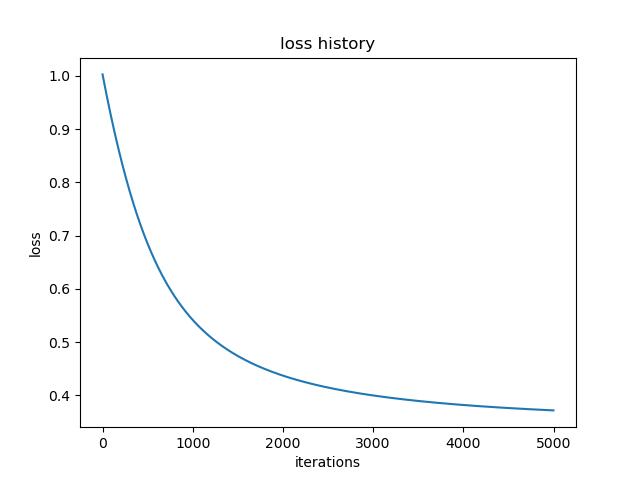
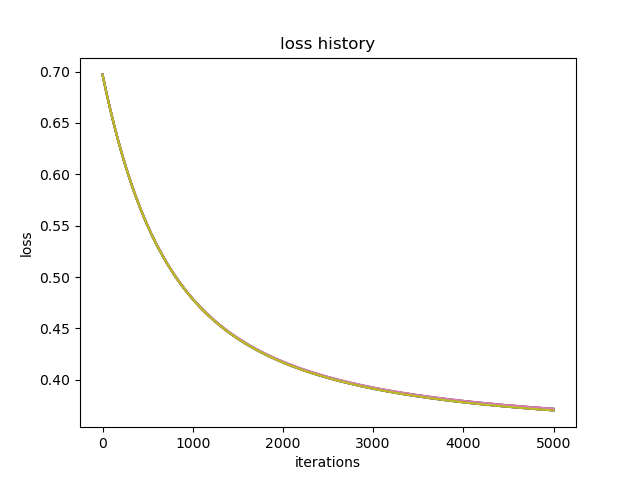
support weight decay

diff --git a/model.py b/model.py
@@ -7,9 +7,10 @@ def sigmoid(x):
 
 
 class LogisticRegressionBinaryClassifier():
-    def __init__(self, iterations=10000, learning_rate=0.01):
+    def __init__(self, iterations=10000, learning_rate=0.01, weight_decay=1.0):
         self.iterations = iterations
         self.learning_rate = learning_rate
+        self.weight_decay = weight_decay
         self.weight = None  # 权重 + 偏置 长度是特征个数 + 1
         self.loss_history = []
         self.n_feature = 0  # 特征个数
@@ -32,18 +33,20 @@ class LogisticRegressionBinaryClassifier():
         X_1 = np.hstack((X, np.ones((len(X), 1))))
         return np.round(sigmoid(np.matmul(X_1, self.weight)))
 
-    # loss: (1/m)*(y * log(sigmoid(wx+b)) + (1-y) * log(1-sigmoid(wx+b)))
+    # loss: (1/m)*(-y * log(sigmoid(wx+b)) - (1-y) * log(1-sigmoid(wx+b)) + 1/2*λw^2)
     def _loss(self, X_1, y):
         res = sigmoid(np.matmul(X_1, self.weight))
         res = np.matmul(y.T, np.log(res)) + np.matmul((1 - y).T, np.log(1 - res))
+        res -= 0.5 * self.weight_decay * np.square(self.weight[:-1])
         res = - res / self.n_samples
         return res
 
-    # gradient: (1/m)*((sigmoid(wx+b) - y) * x)
+    # gradient: (1/m)*((sigmoid(wx+b) - y) * x + λw)
     def _gradient(self, X_1, y):
         res = np.matmul(X_1, self.weight)
         res = sigmoid(res)
         res = res - y
         res = np.matmul(X_1.T, res)
+        res = res + self.weight_decay * np.hstack((self.weight[:-1], np.zeros((1,))))
         res = res / self.n_samples
         return res

diff --git a/main.py b/main.py
@@ -8,7 +8,7 @@ if __name__ == '__main__':
     X_test = load_data('test')
 
     # 2. 利用训练集更新权重
-    classifier = LogisticRegressionBinaryClassifier(iterations=5000, learning_rate=0.01)
+    classifier = LogisticRegressionBinaryClassifier(iterations=5000)
     classifier.train(X_train, y_train)
 
     # 3. 对训练集进行分类
